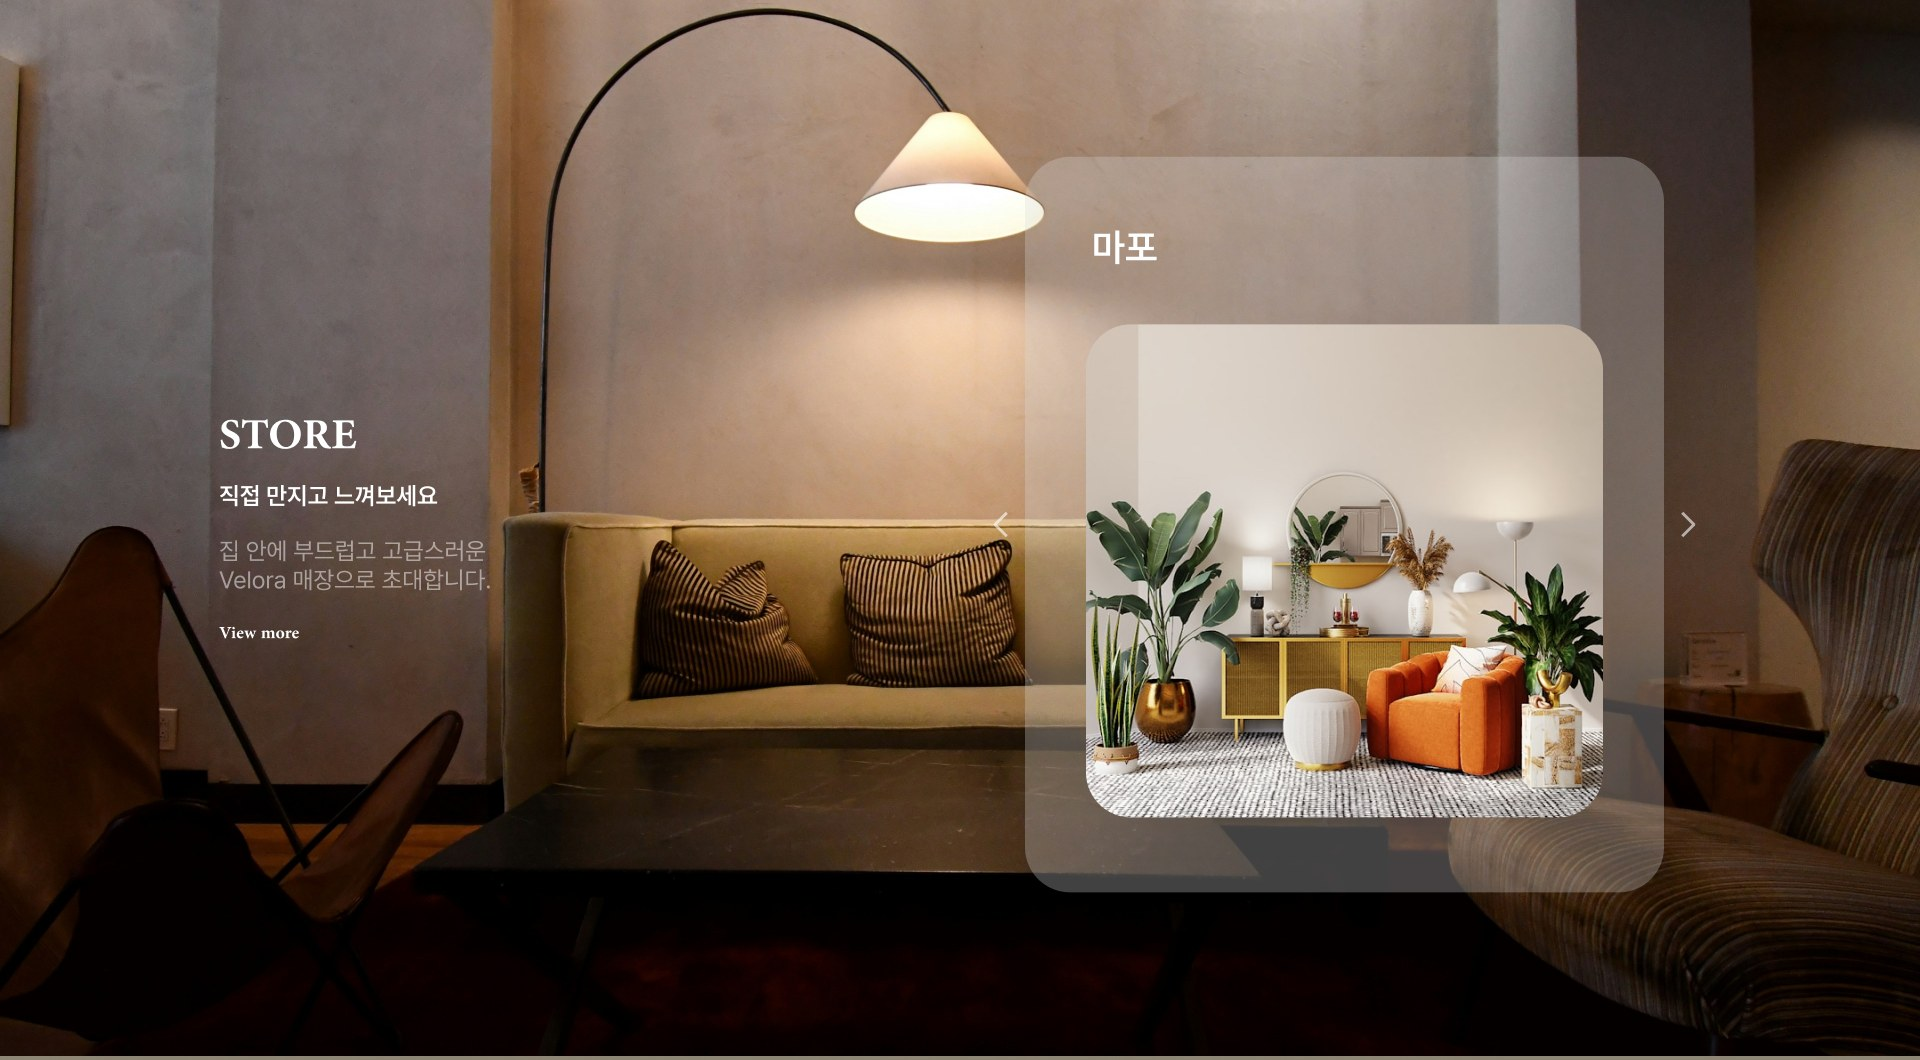
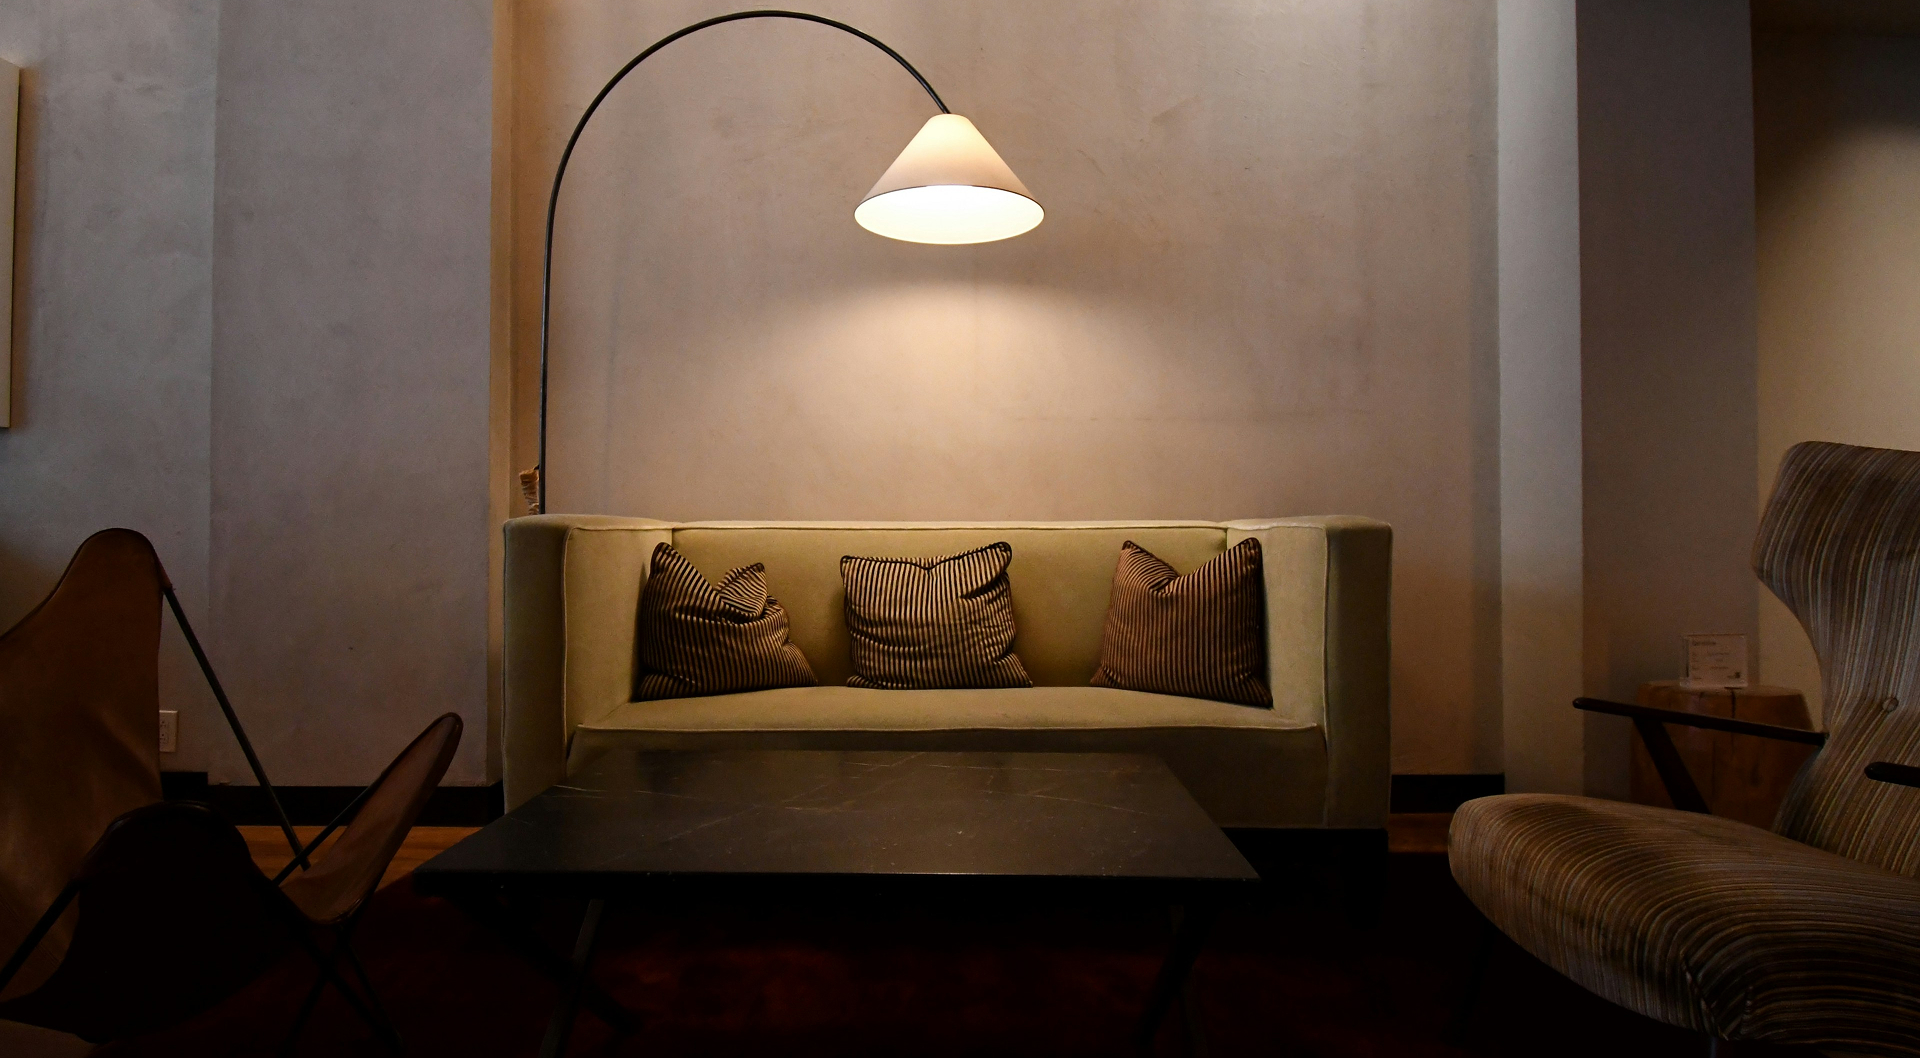
스토어 영역

diff --git a/Velora/js/script.js b/Velora/js/script.js
@@ -200,40 +200,57 @@ function initGalleryDrag() {
 function initStoreCarousel() {
   const label = document.getElementById('storeLabel');
   const photoWrap = document.getElementById('storePhotoWrap');
-  const bg = document.getElementById('storeBg');
   const prevBtn = document.getElementById('storePrev');
   const nextBtn = document.getElementById('storeNext');
   if (!label || !photoWrap || !prevBtn || !nextBtn) return;
 
+  // 매장 배경(store__bg)은 고정, 이 카드 안의 사진만 매장별로 슬라이딩 전환된다.
   const stores = [
-    {
-      name: '마포',
-      photo: './img/store/mapo-thumb.jpg',
-      alt: '마포 매장 쇼룸 - 오렌지 암체어와 라탄 콘솔',
-      bg: './img/store/interior.jpg',
-    },
-    { name: '강남', photo: null, alt: '강남 매장 - 오픈 예정', bg: './img/store/interior.jpg' },
-    { name: '잠실', photo: null, alt: '잠실 매장 - 오픈 예정', bg: './img/store/interior.jpg' },
+    { name: '마포', photo: './img/store/mapo-thumb.jpg', alt: '마포 매장 쇼룸 - 오렌지 암체어와 라탄 콘솔' },
+    { name: '강남', photo: null, alt: '강남 매장 - 오픈 예정' },
+    { name: '잠실', photo: null, alt: '잠실 매장 - 오픈 예정' },
   ];
 
   let current = 0;
+  let animating = false;
 
-  function render() {
-    const store = stores[current];
-    label.textContent = store.name;
-
+  function buildEl(store) {
     if (store.photo) {
-      photoWrap.innerHTML = `<img src="${store.photo}" alt="${store.alt}" />`;
-    } else {
-      photoWrap.innerHTML = `<p class="store__card-empty">${store.name} 매장을<br />준비하고 있어요.</p>`;
+      const img = document.createElement('img');
+      img.src = store.photo;
+      img.alt = store.alt;
+      return img;
     }
-
-    if (bg && store.bg) bg.src = store.bg;
+    const empty = document.createElement('p');
+    empty.className = 'store__card-empty';
+    empty.innerHTML = `${store.name} 매장을<br />준비하고 있어요.`;
+    return empty;
   }
 
   function step(delta) {
+    if (animating) return;
+    animating = true;
+
     current = (current + delta + stores.length) % stores.length;
-    render();
+    const store = stores[current];
+    label.textContent = store.name;
+
+    const outgoing = photoWrap.firstElementChild;
+    const incoming = buildEl(store);
+    incoming.style.transform = `translateX(${delta > 0 ? 100 : -100}%)`;
+    photoWrap.appendChild(incoming);
+
+    requestAnimationFrame(() => {
+      requestAnimationFrame(() => {
+        if (outgoing) outgoing.style.transform = `translateX(${delta > 0 ? -100 : 100}%)`;
+        incoming.style.transform = 'translateX(0)';
+      });
+    });
+
+    setTimeout(() => {
+      if (outgoing) outgoing.remove();
+      animating = false;
+    }, 450);
   }
 
   prevBtn.addEventListener('click', () => step(-1));

diff --git a/Velora/css/style.css b/Velora/css/style.css
@@ -706,11 +706,7 @@ li {
 
 .store__text {
   max-width: 360px;
-  padding: 28px 32px;
-  border-radius: 16px;
-  background: rgba(20, 18, 14, 0.45);
-  backdrop-filter: blur(10px);
-  -webkit-backdrop-filter: blur(10px);
+  text-shadow: 0 1px 3px rgba(0, 0, 0, 0.4), 0 2px 16px rgba(0, 0, 0, 0.3);
 }
 
 .store__eyebrow {
@@ -756,19 +752,24 @@ li {
 }
 
 .store__card-photo {
+  position: relative;
   flex: 1;
   border-radius: 12px;
   overflow: hidden;
 }
 
 .store__card-photo img {
+  position: absolute;
+  inset: 0;
   width: 100%;
   height: 100%;
   object-fit: cover;
-  transition: opacity var(--transition);
+  transition: transform 0.45s var(--ease);
 }
 
 .store__card-empty {
+  position: absolute;
+  inset: 0;
   width: 100%;
   height: 100%;
   display: flex;
@@ -780,6 +781,7 @@ li {
   color: rgba(255, 255, 255, 0.85);
   background: rgba(255, 255, 255, 0.08);
   border-radius: 12px;
+  transition: transform 0.45s var(--ease);
 }
 
 .store__arrow {
@@ -787,12 +789,17 @@ li {
   top: 50%;
   transform: translateY(-50%);
   z-index: 3;
-  padding: 10px;
+  width: 40px;
+  height: 40px;
+  display: flex;
+  align-items: center;
+  justify-content: center;
   transition: transform var(--transition-fast), opacity var(--transition-fast);
 }
 
 .store__arrow img {
   width: 20px;
+  height: 20px;
 }
 
 .store__arrow:hover {
@@ -801,11 +808,23 @@ li {
 }
 
 .store__arrow--prev {
-  left: 4%;
+  right: 100%;
+  margin-right: 20px;
+  transform: translateY(-50%);
 }
 
 .store__arrow--next {
-  right: 4%;
+  left: 100%;
+  margin-left: 20px;
+  transform: translateY(-50%);
+}
+
+.store__arrow--prev:hover {
+  transform: translateY(-50%) scale(1.2);
+}
+
+.store__arrow--next:hover {
+  transform: translateY(-50%) scale(1.2);
 }
 
 /* ==========================================================================

diff --git a/Velora/index.html b/Velora/index.html
@@ -215,13 +215,30 @@
       <div class="store__media">
         <picture>
           <source media="(max-width: 767px)" srcset="./img/store/interior-mobile.jpg" />
-          <img src="./img/store/interior.jpg" alt="아치형 플로어 램프와 벨벳 소파가 있는 Velora 매장 내부" class="store__bg" id="storeBg" />
+          <img src="./img/store/interior.jpg" alt="아치형 플로어 램프와 벨벳 소파가 있는 Velora 매장 내부" class="store__bg" />
         </picture>
       </div>
 
       <div class="store__inner">
+        <div class="store__text">
+          <p class="store__eyebrow">STORE</p>
+          <h2 id="store-heading">직접 만지고 느껴보세요</h2>
+          <p class="store__desc">집 안에 부드럽고 고급스러운<br />Velora 매장으로 초대합니다.</p>
+          <a href="#" class="link-more link-more--light">View more</a>
+        </div>
 
-
+        <div class="store__card">
+          <button type="button" class="store__arrow store__arrow--prev" id="storePrev" aria-label="이전 매장 보기">
+            <img src="./img/icons/chevron-left-light.svg" alt="" />
+          </button>
+          <p class="store__card-label" id="storeLabel">마포</p>
+          <div class="store__card-photo" id="storePhotoWrap">
+            <img src="./img/store/mapo-thumb.jpg" alt="마포 매장 쇼룸 - 오렌지 암체어와 라탄 콘솔" class="is-current" />
+          </div>
+          <button type="button" class="store__arrow store__arrow--next" id="storeNext" aria-label="다음 매장 보기">
+            <img src="./img/icons/chevron-right-light.svg" alt="" />
+          </button>
+        </div>
       </div>
     </section>
 
